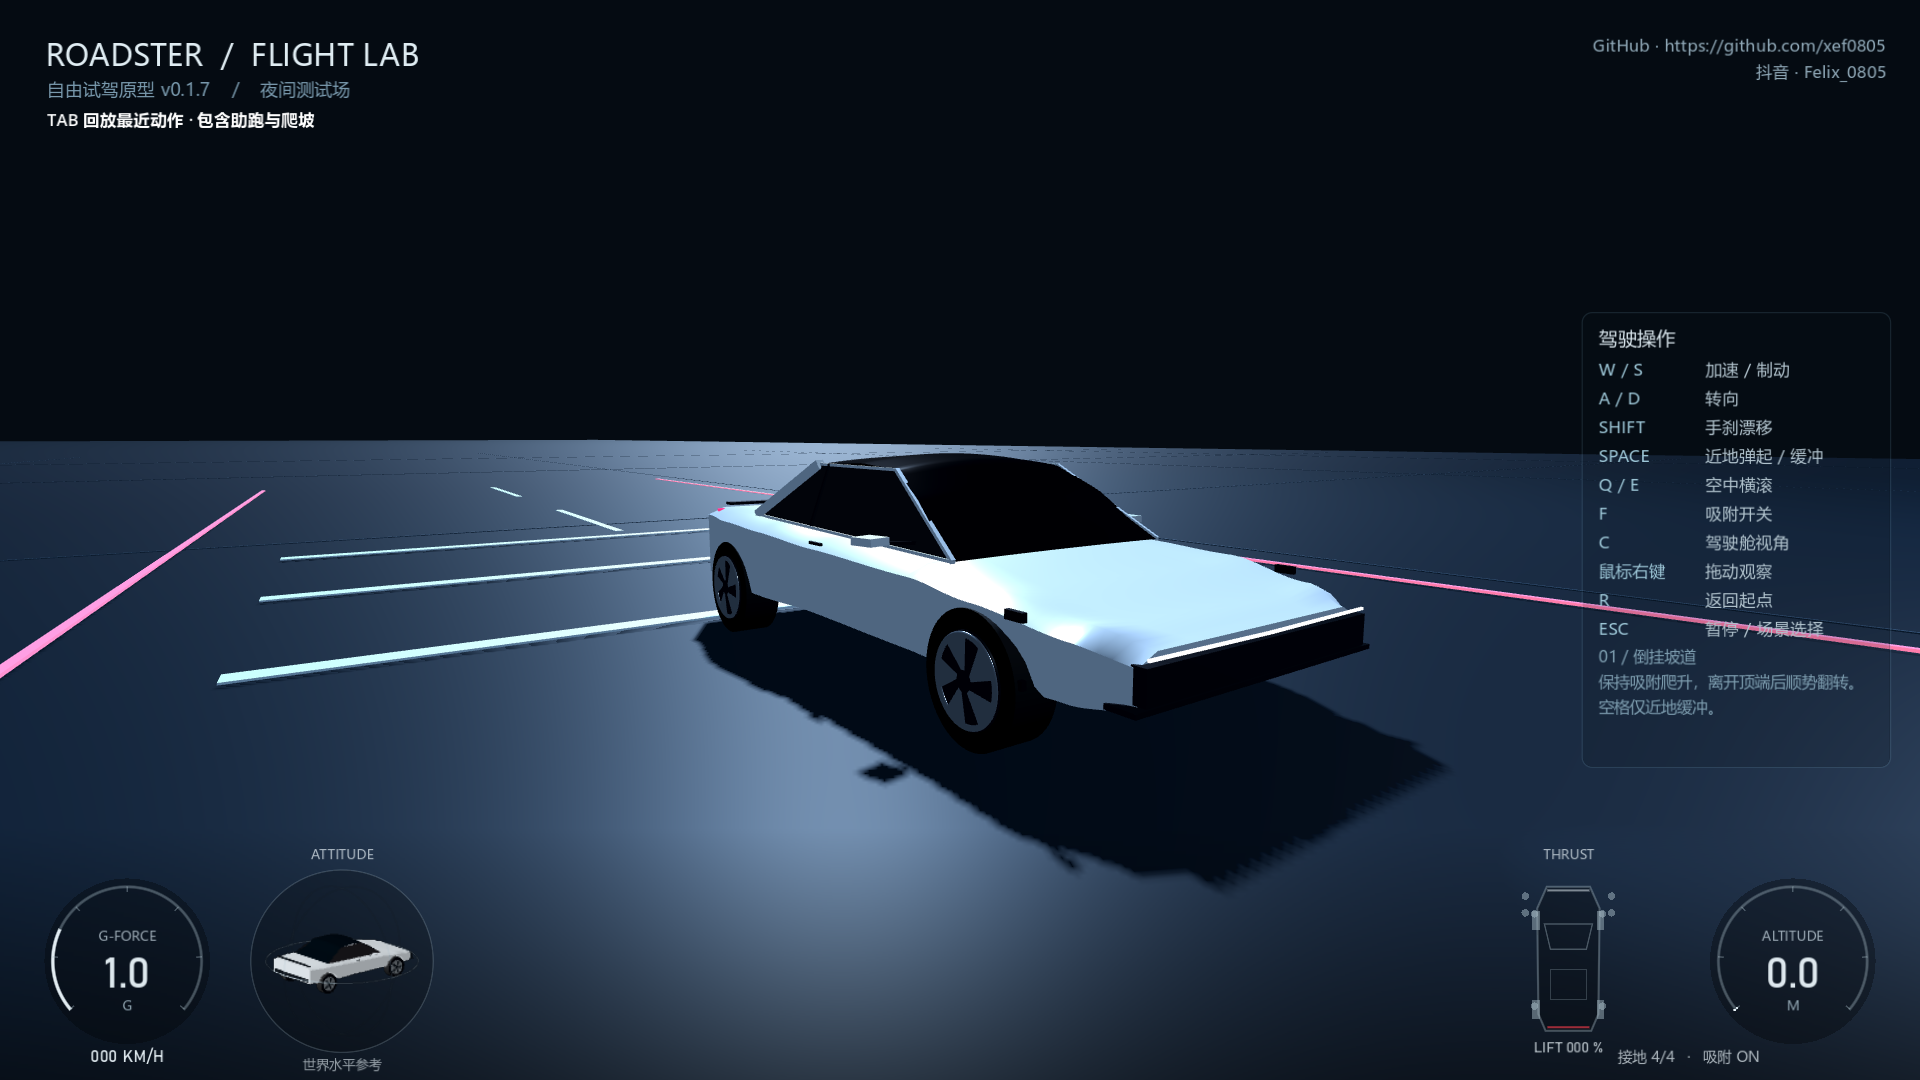
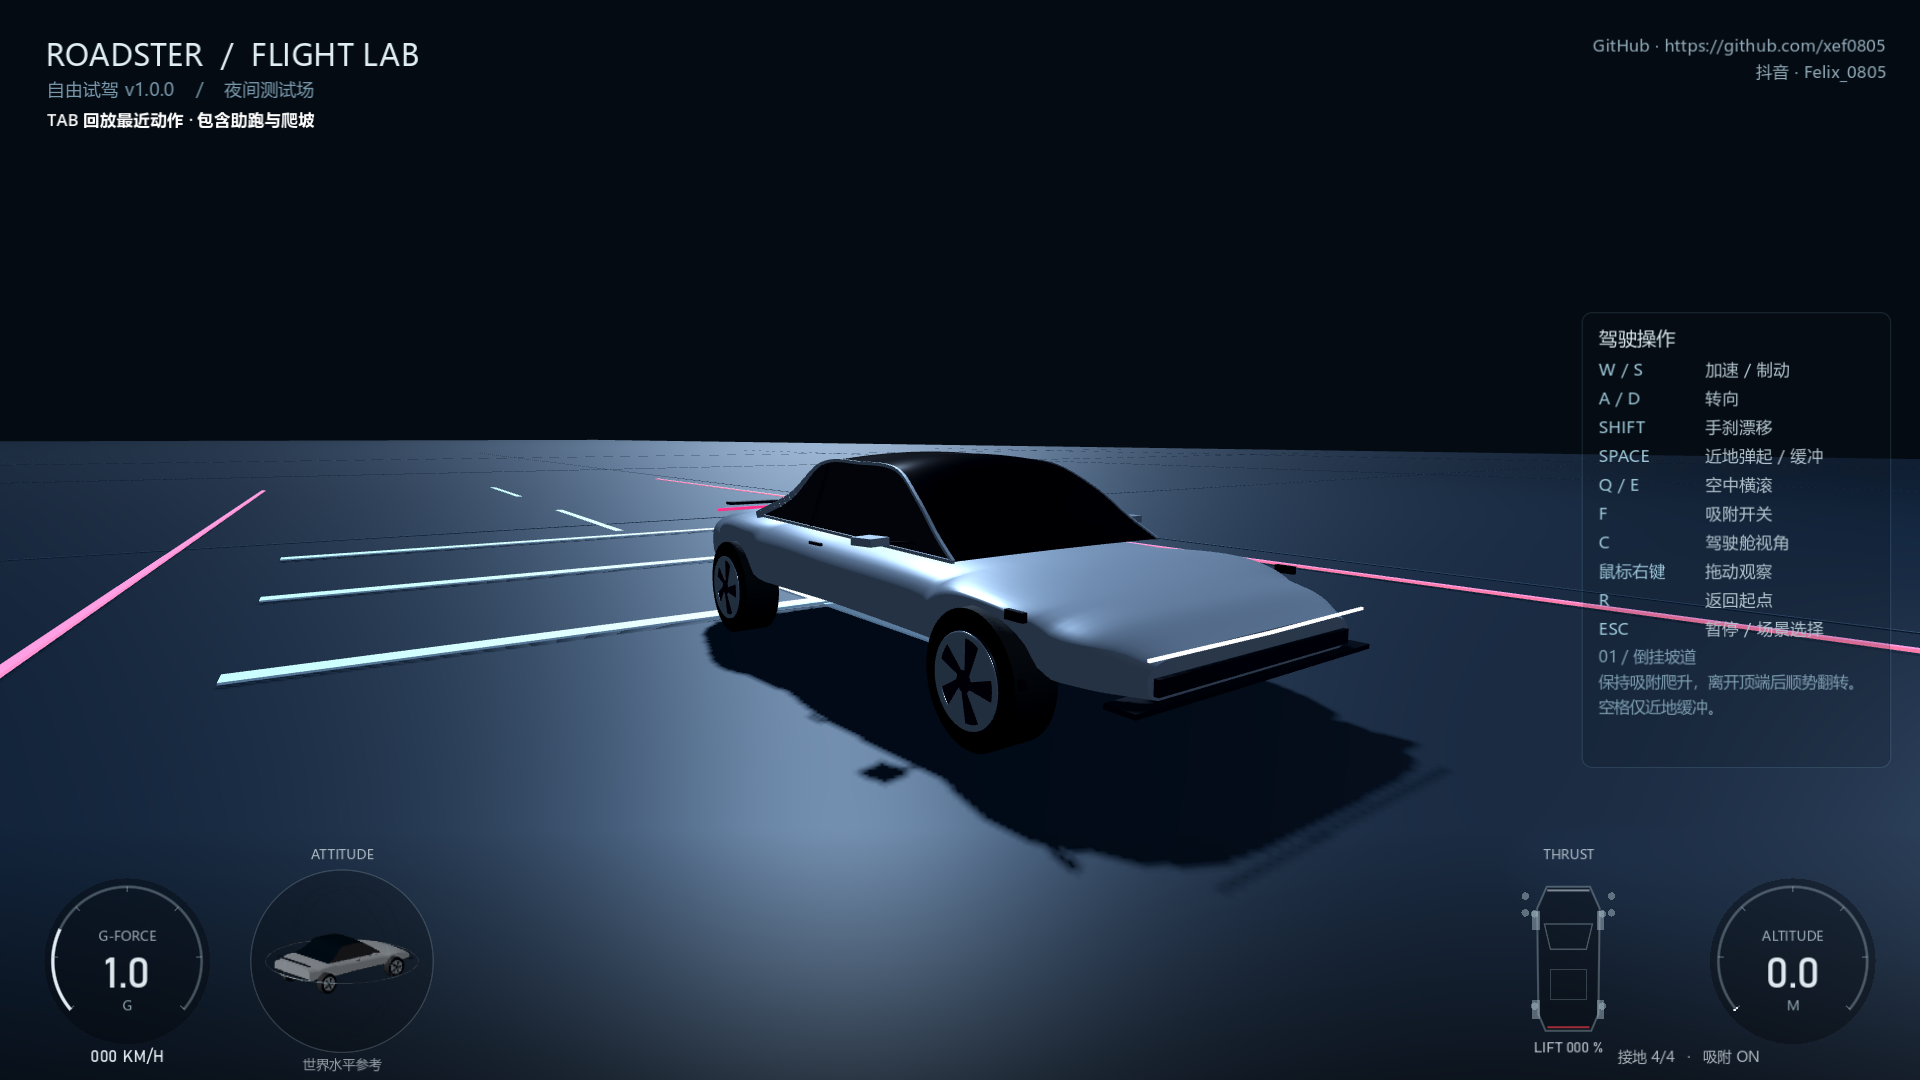
Release v1.0.0 with refined car, replay audio and compact landing mist

diff --git a/work/package.py b/work/package.py
@@ -19,6 +19,7 @@ preset = source / "export_presets.cfg"
 preset.write_text(preset.read_text(encoding="utf-8").replace("../../outputs/RoadsterLab/", "../RoadsterLab/"), encoding="utf-8")
 for file in data.glob("current_*.png"):
     shutil.copy2(file, qa)
+shutil.copy2(data / "current_replay_audio.wav", qa)
 for name in ["current-visual-report.json", "performance.json", "performance.png", "performance-cockpit.json", "performance-cockpit.png"]:
     shutil.copy2(data / name, qa)
 shutil.copy2(data / "v014_720p.png", qa / "720p.png")
@@ -28,27 +29,31 @@ for mode in ["current", "perf", "perf-cockpit", "small"]:
     shutil.copy2(root / f"work/standalone-{mode}.log", qa)
 shutil.copy2(data / "current_model_front.png", out / "截图_Roadster.png")
 shutil.copy2(data / "current_replay_front.png", out / "截图_回放.png")
+shutil.copy2(data / "current_model_side.png", out / "截图_侧面.png")
+shutil.copy2(data / "current_landing_cloud.png", out / "截图_落地喷气.png")
 perf = json.loads((data / "performance.json").read_text(encoding="utf-8"))
 visual = json.loads((data / "current-visual-report.json").read_text(encoding="utf-8"))
 summary = json.loads((qa / "summary.json").read_text(encoding="utf-8"))
 cockpit_perf = json.loads((data / "performance-cockpit.json").read_text(encoding="utf-8"))
 assert all(row["passed"] for row in summary) and visual["passed"]
-(qa / "验证记录.md").write_text(f"""# v0.1.7 验证记录
+(qa / "验证记录.md").write_text(f"""# v1.0.0 首个正式版验证记录
 
-- 30 / 60 / 120 FPS 各通过 {sum(row['checks'] for row in summary if row['display_fps']==120)} 项检查，共 {sum(row['checks'] for row in summary)} 项。包含倒挂路线和五车飞越各连续三次、弹道、吸附、漂移、制动、仪表，以及 27 项回放/高空喷气检查。
+- 30 / 60 / 120 FPS 各通过 {sum(row['checks'] for row in summary if row['display_fps']==120)} 项检查，共 {sum(row['checks'] for row in summary)} 项。包含倒挂路线和五车飞越各连续三次、弹道、吸附、漂移、制动、仪表，以及 {next(row['checks'] for row in summary if row['suite']=='replay_test')} 项回放/高空喷气检查。
 - 高空按空格：4 个主喷口有动画，垂直推力为 0，无近地白雾。独立版截图与原始报告在本目录。
 - 实际默认启动为全屏模式 {visual['window_mode']}、无边框 {visual['borderless']}，屏幕 {visual['screen_size']}。另以 1280×720 窗口检查布局。
 - 回放从实际起跳和横滚录得 {visual['clip_frames']} 帧、{visual['clip_seconds']:.2f} 秒，30Hz 采样、逐帧插值显示。检查暂停、时间轴边界、自由镜头、重置不覆盖上一次录像，返回驾驶时原位置误差 {visual['restored_position_error']:.8f} 米，速度恢复检查通过。
 - 真实驾驶检查确认坡道录像第一帧位于平地起点 (-42,约0.516,22)，包含助跑、接触坡面爬升、倒挂、飞行和落地，约 363 帧。缓冲最长 12 秒，整段上限约 120 秒；静止停车时仅留约 1 秒准备画面。
 - 回放默认速度 32m/s，Shift 三倍。空格播放/暂停，左右箭头前后跳一秒，Q/E 世界坐标升降，鼠标上下方向修正；这些输入不操作原车。默认镜头跟随车辆，操作后自由观察。
-- 独立版实际渲染检查：静置 3 秒后提示、标题、仪表和进度条均隐藏，水印保留，输入恢复界面。暂停菜单正常显示，水印为 GitHub 主页 https://github.com/xef0805 与抖音 Felix_0805。
-- 依据新参考图调整车头、灯带、肩线、轮毂与车顶。侧窗不透明，主镜头排除机器人；驾驶舱的 512×160 实时后视镜单独渲染机器人，车外关闭镜面渲染。已查看车身前后、侧面、镜内画面和暂停菜单。
+- 独立版实际渲染检查：静置后界面保持显示，点击隐藏按钮后提示、标题、仪表和进度条隐藏，水印保留；普通输入保持隐藏，H 恢复，R 从头重播。驾驶车外/驾驶舱及回放的上下拖动反转检查通过。移除 Landing Zone 文字与绿色边框，后视镜保持原样。
+- 银灰金属车漆、圆润的 40 点横截面、连续插值的车身及车顶曲面，移除侧面黑色装饰片。侧窗不透明，主镜头排除机器人；后视镜保持原样。已查看车身前后、侧面、镜内画面和暂停菜单。
+- 回放声音来自录像中的速度、轮胎滑动、喷气与落地状态，原车在回放时静音。实际音频输出 RMS {visual['replay_audio_rms']:.8f}，暂停时 RMS {visual['replay_paused_audio_rms']:.8f}；音频采样见 current_replay_audio.wav。另检查落地声连续播放触发、拖动进度不误触发、重播从头开始。
+- 落地缓冲喷流加宽加密，白雾集中在车身附近：雾团尺寸、径向扩散速度与存留时间均缩小。实机下降时白雾发射比例 {visual['landing_fog_ratio']:.2f}，高空不发射贴地雾；current_landing_plume.png / current_landing_cloud.png 展示接地前后效果。物理推力不变。
 - 已查看近地雾、高空气柱、横滚、回放及自由镜头。车辆为简化模型，非官方精确模型；烟雾重新生成，不逐粒录制。
 - 独立 Windows exe 从不含源工程的目录启动完成验证，退出码均为 0，无脚本错误。
 - {perf['renderer']}，实际图像 {perf['render_resolution']}，短时基准平均 {perf['average_fps']:.1f} FPS，P95 {perf['p95_frame_ms']:.2f}ms。解除帧率限制的样本超过 60FPS 目标；普通游戏封顶 120FPS，该样本不代表所有场景最低帧率。
 - 驾驶舱含实时后视镜的独立 1080p 样本：平均 {cockpit_perf['average_fps']:.1f} FPS，P95 {cockpit_perf['p95_frame_ms']:.2f}ms。
 
-所有动作均由自动输入验证，没有宣称人工逐关试玩。日志中的系统证书库提示未影响离线运行，高速无头测试偶有 Jolt 队列警告。项目已改用固定工程、发布、压缩包和验证目录，之后覆盖更新。
+所有动作均由自动输入验证，没有宣称人工逐关试玩。日志中的系统证书库提示未影响离线运行，高速无头测试偶有 Jolt 队列警告。项目使用固定工程、发布、压缩包和验证目录，之后覆盖更新。GitHub 上传与下载包校验结果见 GitHub发布记录.json。
 """, encoding="utf-8")
 for folder, filename in [(release, "RoadsterLab-Windows.zip"), (source, "RoadsterLab-source.zip")]:
     target = out / filename

diff --git a/work/game/操作说明.md b/work/game/操作说明.md
@@ -1,15 +1,18 @@
-# Roadster Flight Lab v0.1.7
+# Roadster Flight Lab v1.0.0（首个正式版）
 
 双击 RoadsterLab.exe 直接运行，无需安装 Godot。默认无边框全屏。
 
 ## 本版更新
 
-- 按参考图调整低矮楔形车头、贯穿前灯、肩线、溜背车顶与轮毂。玻璃保持不透明，车外隐藏机器人；切换驾驶舱后，仅在车内后视镜的实时渲染画面中看到机器人。
+- 银灰金属车漆，重新制作圆润横截面及连续车身、车顶曲面，移除侧面黑色装饰片。玻璃保持不透明，后视镜保持原样。
+- 回放加入随录像速度、轮胎滑动、喷气和落地状态变化的车声，暂停时同步停声，拖动进度不会误触发落地声。
+- 落地缓冲时喷流较密，白雾集中在车身附近；缩小雾团、降低扩散速度并缩短消散时间，高空仍不产生贴地白雾。
 - 高空按空格仍有较细的气柱、喷口提示与声音。垂直升力仅用于近地短时起跳和下降缓冲，高空无法持续升高；高空喷气不会抵消重力或延长滞空。
 - 右键环顾支持完整环绕与更大的俯仰范围，鼠标捕获后不受屏幕边缘限制。滚轮调节车外观察距离，松开右键后平滑归位。
 - 右上角水印改为 GitHub 主页 https://github.com/xef0805 与抖音号 Felix_0805，回放中也保留。
 - 回放提前保留助跑、完整爬坡到起飞的动作，镜头默认速度增加到 32m/s；鼠标上下观察方向按反馈修正。
-- 回放静置 3 秒隐藏提示、进度条和仪表，操作后恢复；Esc 暂停菜单重新设计。
+- 驾驶与回放的右键上下拖动方向均已反转。回放新增 R 从头重播、H 手动隐藏/显示界面及对应按钮，取消自动隐藏；水印保留。
+- 移除飞越车队区域的 Landing Zone 文字与绿色边框。后视镜保持原样。Windows 游戏包与 Godot 源工程在 GitHub Releases 发布。
 
 车辆、喷气、吸附和辅助参数用于游戏，不代表真实 Tesla 技术规格。模型为自制简化模型，音效为原创合成。
 
@@ -37,7 +40,7 @@
 
 下降到有效地面或障碍物表面上方约 6 米内时，按空格可缓冲。高空长按或反复点按均不能续升；松开立即切断垂直推力。落地后一直按住空格不会自动弹起，落稳后松开再按才能重新起跳。
 
-近地喷气会扬起白雾，离地后白雾留在地面消散，高空只保留较细气柱。
+近地喷气会扬起白雾，下降缓冲时喷流更密更宽，落地白雾集中在车身附近，短暂扩散后消散；高空只保留较细气柱。
 
 倒挂坡道：默认起点。保持吸附，沿白线加速爬升，离开末端后沿坡道方向继续翻转。离开后松开 W，必要时按 S 降低水平速度，接近地面时按空格缓冲。低速离开可能直接下落。
 
@@ -58,12 +61,14 @@
 | 滚轮 | 调整镜头移动速度 |
 | 空格 | 暂停 / 播放；暂停时也可自由移动镜头 |
 | ← / → | 后退 / 前进一秒 |
+| R / 重播按钮 | 从头播放，保留当前自由镜头位置 |
+| H / 隐藏界面按钮 | 手动隐藏 / 显示提示、进度条、标题和仪表；隐藏后按 H 恢复 |
 | 时间轴 | 鼠标拖动查看任意时刻 |
 | Tab / Esc / 返回驾驶按钮 | 退出回放，回到原来的驾驶位置与速度 |
 
-回放开始时镜头默认跟随车辆，手动调整镜头后自由观察。默认移动速度 32m/s，Shift 为三倍，滚轮可在 4—200m/s 间调节。静置 3 秒后，操作面板、时间轴、标题与仪表都会隐藏，水印保留；移动鼠标或按键后恢复。Q/E 仅升降镜头，空格不会触发车辆喷气，方向键仅调整播放进度。
+回放开始时镜头默认跟随车辆，手动调整镜头后自由观察。默认移动速度 32m/s，Shift 为三倍，滚轮可在 4—200m/s 间调节。界面不会自动隐藏，按 H 或点击隐藏界面按钮后，操作面板、时间轴、标题与仪表隐藏，水印保留；按 H 恢复。移动鼠标、调整进度、重播均保持当前显示状态。Q/E 仅升降镜头，空格不会触发车辆喷气，方向键仅调整播放进度。
 
-回放保存车身轨迹、姿态、转向、悬架和喷气状态；烟雾粒子会重新生成，因此细节不保证与第一次逐粒一致。录像播放不重新模拟车辆物理，也不会改变原驾驶状态。尚未完成起飞落地时，会提示没有可看的完整录像。
+回放保存车身轨迹、姿态、转向、悬架、喷气、轮胎滑动和落地状态；车声根据这些状态重建，包含行驶、轮胎、喷气和落地声，暂停时同步停声。烟雾粒子会重新生成，因此细节不保证与第一次逐粒一致。录像播放不重新模拟车辆物理，也不会改变原驾驶状态。尚未完成起飞落地时，会提示没有可看的完整录像。
 
 ## 仪表
 

diff --git a/work/game/README.md b/work/game/README.md
@@ -8,7 +8,7 @@
 - car.gd：驾驶物理、近地升力、喷气特效、音效与实时驾驶舱后视镜。
 - art.gd：车辆、机器人和场地建模。
 - hud.gd：仪表、世界姿态球与喷口图。
-- replay.gd：助跑与爬坡完整记录、轨迹插值、自由镜头与闲置隐藏界面。
+- replay.gd：助跑与爬坡完整记录、轨迹插值、自由镜头、重播与手动隐藏界面。
 
 在本目录运行（Godot 替换为本机引擎路径）：
 
